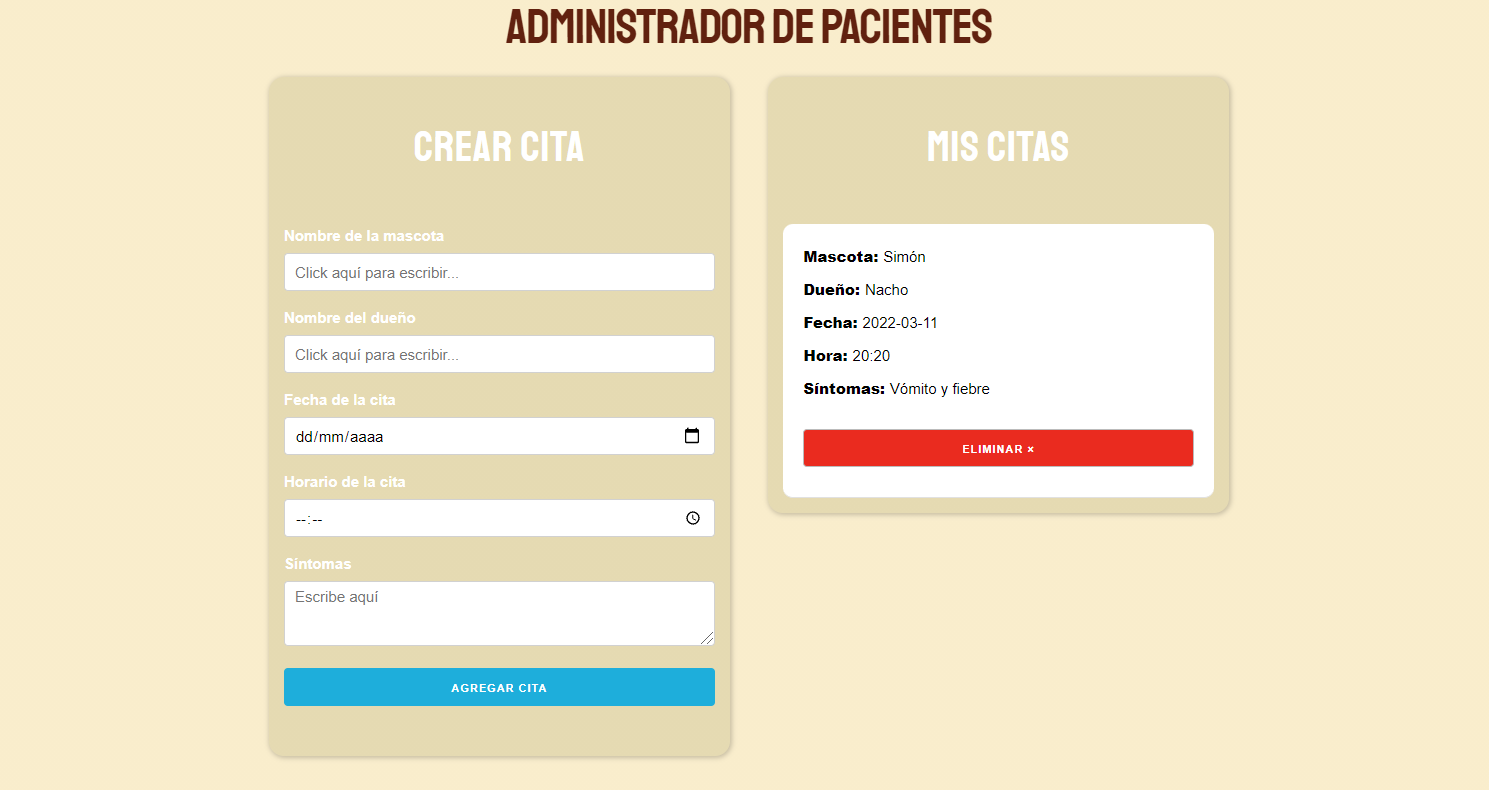
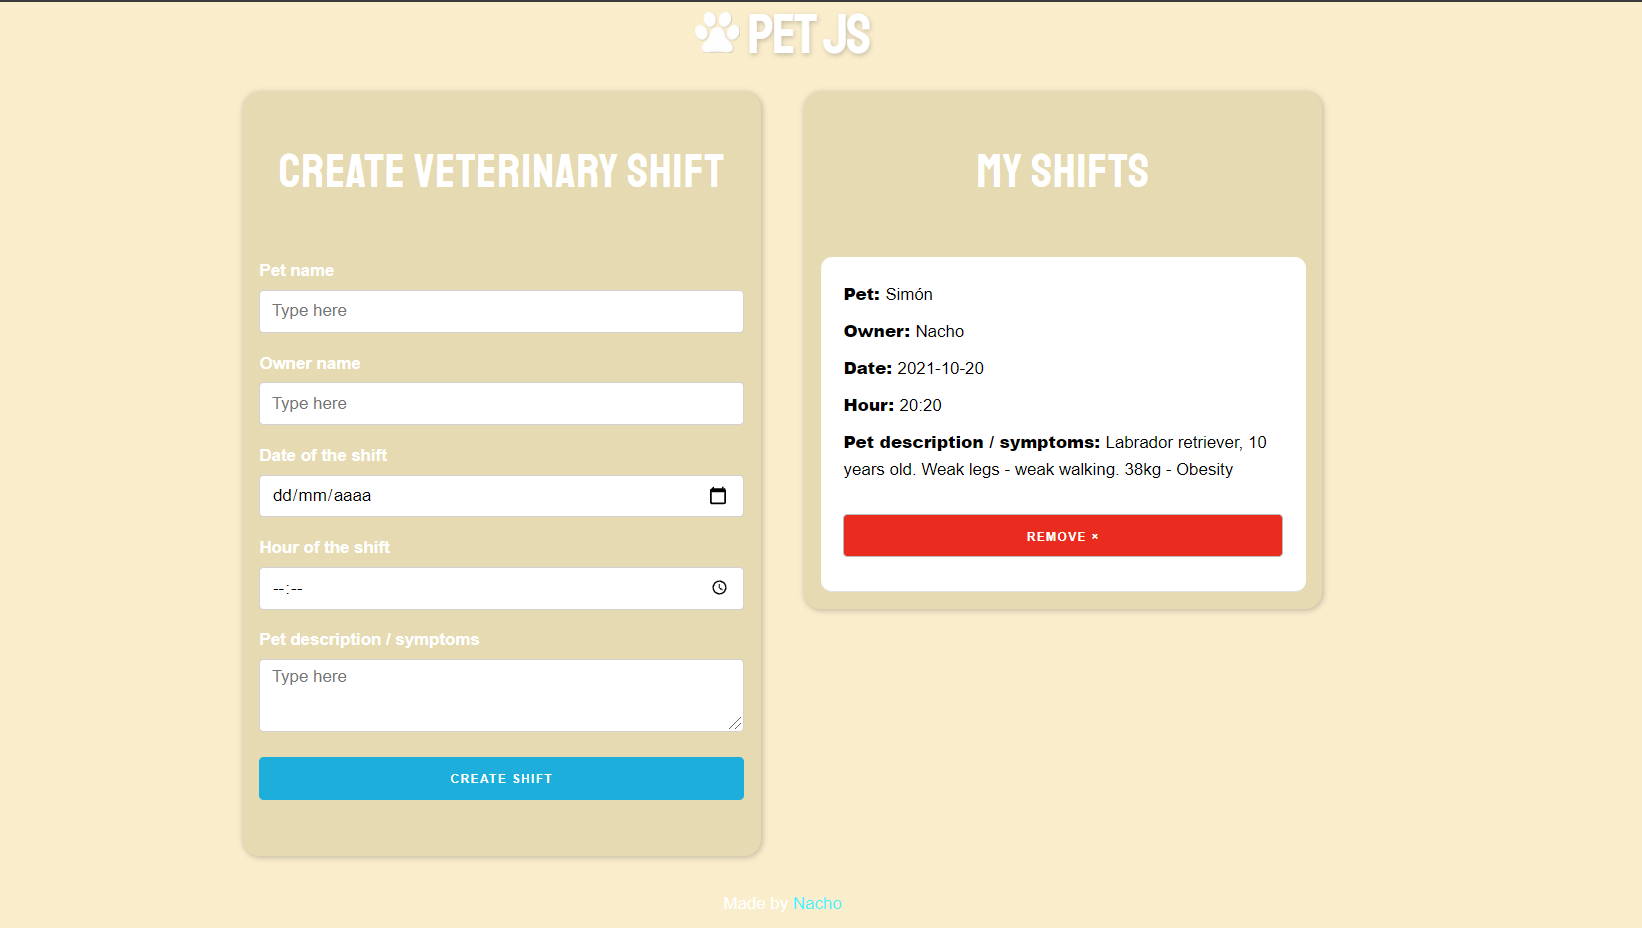
language fix

Changed region(s): [[0.1236, 0.0911, 0.8341, 1.0], [0.3398, 0.0, 0.6797, 0.0608], [0.587, 0.1519, 0.7414, 0.2127]]

diff --git a/README.md b/README.md
@@ -96,7 +96,7 @@ Individual front-end project, made with React, fetching data from the [Weather A
 
 ---
 
-## Administrador de Pacientes
+## Pet JS
 
 Simple React project. Application to manage patient shifts in a veterinary. (React Forms, React Hooks, localStorage)
 
